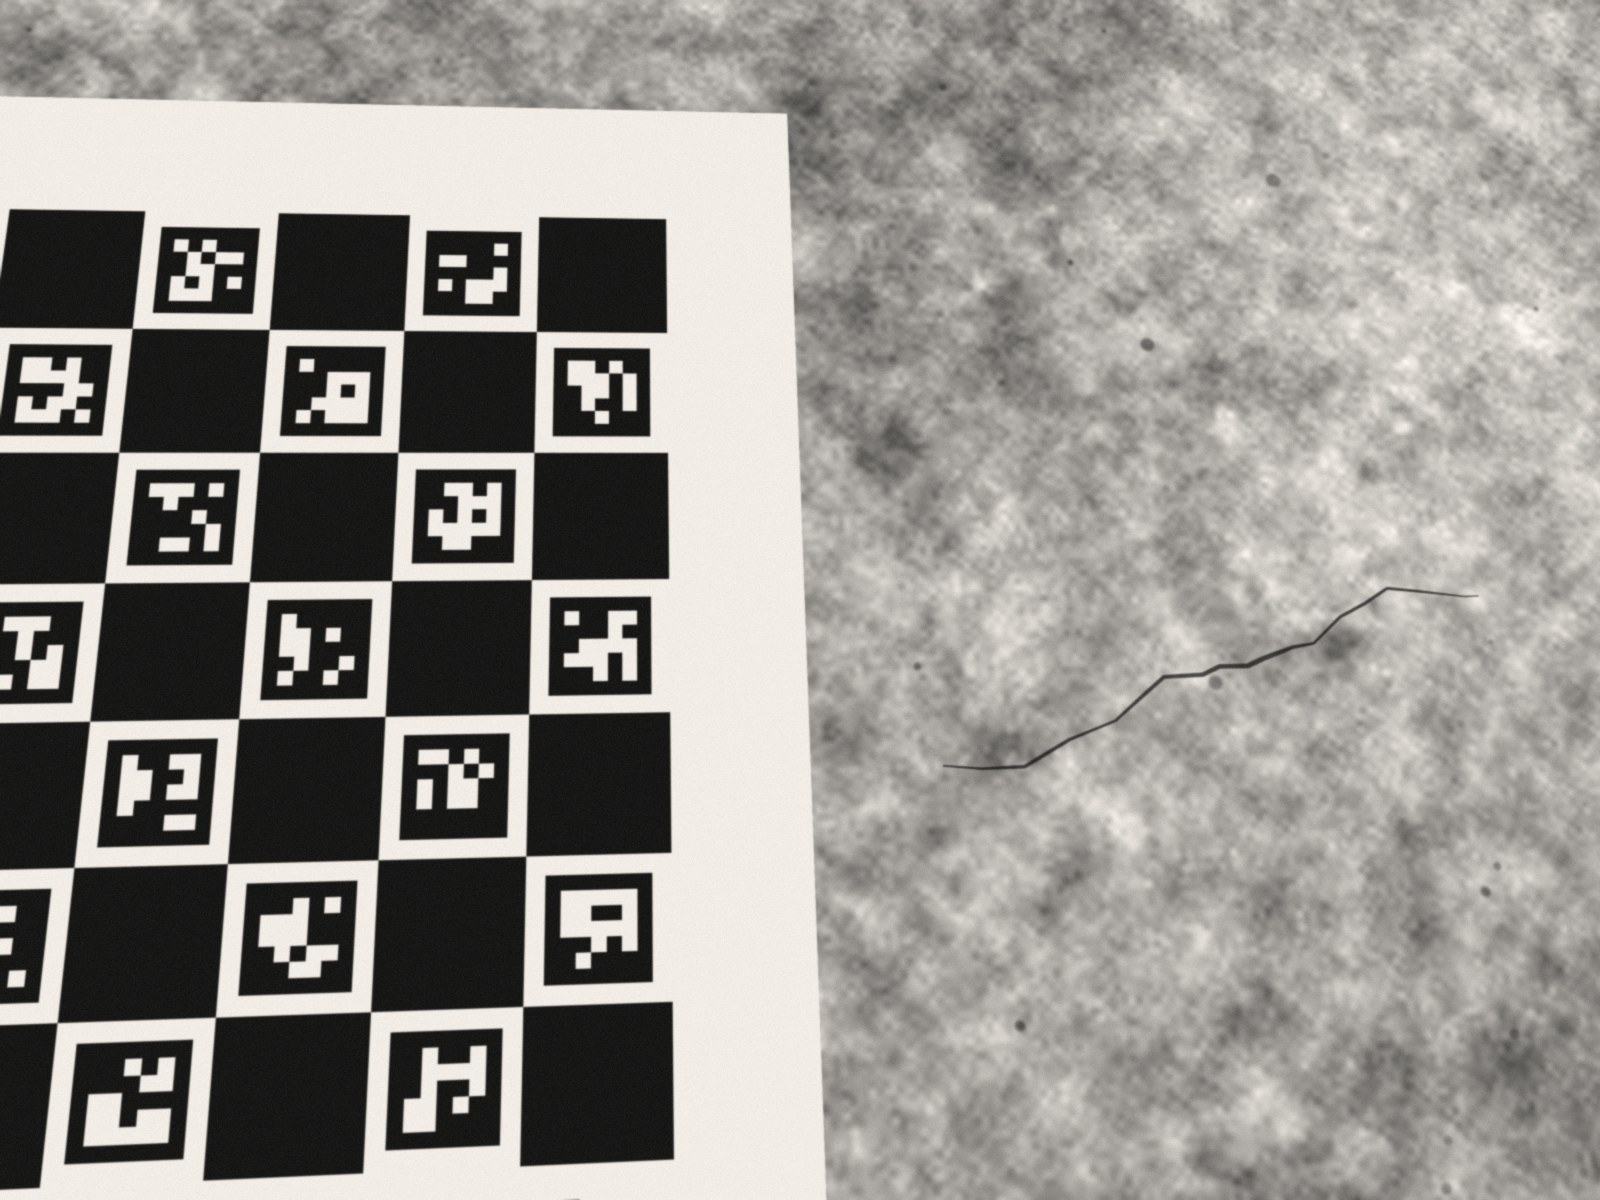
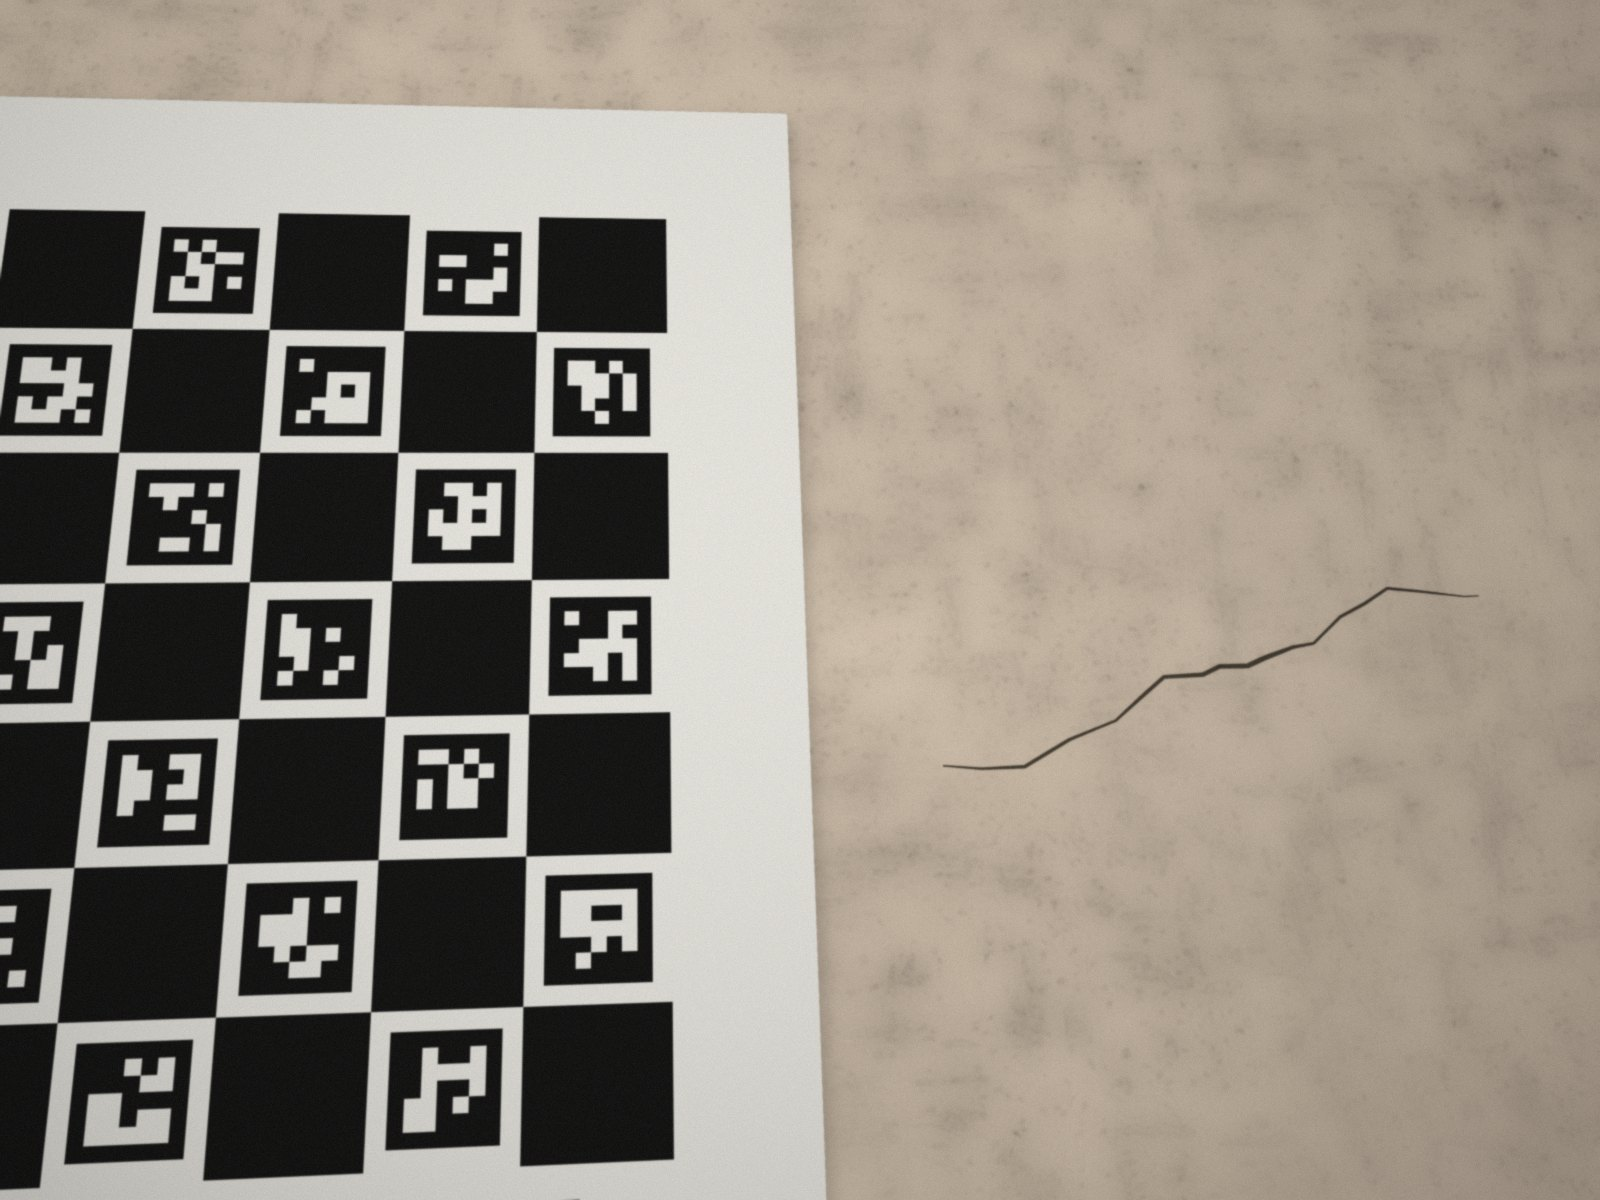
Photos de démo : fissure synthétique sur un vrai mur CC0 (Poly Haven, « Plastered Wall »)
Même géométrie, mêmes caméras, même vérité terrain ; seul le rendu change.
Histoire vérifiée : reprise -> photo plus proche -> prochaine visite -> comparaison + ticket.
Jeu d'évaluation et chiffres publiés inchangés.

diff --git a/scripts/make_demo_samples.py b/scripts/make_demo_samples.py
@@ -1,14 +1,25 @@
 """Synthetic sample photos for the hosted demo (one wall, one crack, four photos).
 
 The hosted demo must be testable by judges who have no printed card and no cracked wall, so it
-ships four *synthetic* photos of the same procedural wall (ground truth known exactly):
+ships four *synthetic* photos of the same wall (ground truth known exactly):
 
   blurry   visit 1, first attempt: camera shake -> the agent must ask for a retake
   far      visit 1, second attempt: sharp but far away -> the crack is < 3 px wide -> closer photo
   close    visit 1, closer photo of the same crack -> measured
   visit2   three months later: the crack widened by 0.45 mm and grew by 12 mm -> compare -> ticket
 
-usage: python scripts/make_demo_samples.py --out web/samples
+The published samples (web/samples) put the synthetic crack on a real CC0 wall photo from Poly Haven
+("Plastered Wall" by Amal Kumar, see crackwatch/assets/textures/ATTRIBUTION.md):
+
+  python scripts/make_demo_samples.py --out web/samples --texture crackwatch/assets/textures/plastered_wall_diff_crop.jpg
+
+Only the look changes with --texture (colour wall, soft light fall-off, vignette, shaded crack); the
+crack polylines, the card pose, the four camera poses (seed 424246) and therefore the ground truth are
+the same as without it, computed by the same synth._gt_cracks. The texture's fine pores are toned
+down (--texture-detail) because isolated dark dots are not what the detector was tuned on; the
+measurement thresholds are never touched. Output is deterministic (fixed seeds, OpenCV only).
+Without --texture the original procedural grey concrete is rendered (crackwatch.synth, unchanged).
+
 They are clearly labelled "synthetic" in the interface, with the true widths next to the measured ones.
 """
 import argparse
@@ -107,6 +118,125 @@ def render(sp, wall, cracks, cam, seed, extra_blur=0.0, motion_px=0):
     return buf, gt
 
 
+# ------------------------------------------------------------------ photographic wall (--texture)
+# Same scene, same cameras, same crack polygons as above; only the look changes: the procedural
+# grey concrete is replaced by a real CC0 wall photo (colour), the crack is a dark gap with a soft
+# shadowed rim, the light falls off across the wall and the lens vignettes. Ground truth is computed
+# by the same synth._gt_cracks from the same polylines and homographies, so it stays exact.
+# Intensities stay in the same near-linear domain as render() (output gamma 1.1, crack depth
+# sp.crack_depth): the measurement's blur/width model sees the crack exactly as on the grey wall.
+LAMP_MM = (-320.0, -300.0)      # broad soft light up-left of the card (wall mm)
+LAMP_SIGMA_MM = 520.0
+CRACK_CORE_TINT = np.array([0.88, 0.96, 1.0], np.float32)   # BGR: shadow inside the gap reads slightly warm
+CRACK_RIM = 0.06                # extra darkening of the rim (dust, chipped paint edge)
+CRACK_RIM_MM = 0.15             # rim softness (Gaussian sigma)
+
+
+def load_texture(path, px_per_mm, smooth_mm=1.5, contrast=3.0, detail=0.5, tint=(1.0, 1.08, 1.15), mid=None, broad_mm=8.0):
+    """CC0 wall photo (JPEG) -> float32 BGR 0..1 ready to render.
+
+    Works on luminance so the paint colour is kept, in three bands: the broad relief (coarser than
+    `broad_mm`, which the detector's 12 mm background median absorbs) is scaled by `contrast`, the
+    mid relief (`smooth_mm`..`broad_mm`) by `mid`, the fine grain (pores, specks) by `detail`. Real paint pores are isolated dark
+    dots that the ridge detector's relative thresholds (median + k MAD) were not tuned on, so they are
+    toned down rather than the thresholds touched. Hue variation is kept, softened."""
+    bgr = cv2.imread(path, cv2.IMREAD_COLOR)
+    if bgr is None:
+        raise SystemExit(f"cannot read texture {path}")
+    lin = bgr.astype(np.float32) / 255.0
+    L = lin.mean(2)
+    s = max(0.5, smooth_mm * px_per_mm)
+    low = cv2.GaussianBlur(L, (0, 0), s)
+    Lm = float(L.mean())
+    broad = cv2.GaussianBlur(L, (0, 0), broad_mm * px_per_mm)
+    mid = contrast if mid is None else mid
+    Lnew = Lm + contrast * (broad - Lm) + mid * (low - broad) + detail * (L - low)
+    chroma = cv2.GaussianBlur(lin / np.maximum(L, 1e-3)[..., None], (0, 0), s)
+    cm = chroma.reshape(-1, 3).mean(0)
+    chroma = cm + 0.5 * (chroma - cm)
+    return np.clip(Lnew[..., None] * chroma * np.asarray(tint, np.float32), 0, 1)
+
+
+def texture_meta(path):
+    """Provenance sidecar <texture>.json (id, name, authors, url, license, sha256 ...)."""
+    side = os.path.splitext(path)[0] + ".json"
+    if not os.path.exists(side):
+        raise SystemExit(f"missing provenance file {side}")
+    with open(side) as f:
+        return json.load(f)
+
+
+def render_textured(sp, tex, tex_frame, cracks, cam, seed, extra_blur=0.0, motion_px=0, exposure=1.0, noise=0.008,
+                    spec=synth.CARD_A6):
+    """Photographic version of render(): colour wall texture, shaded crack, lit card, vignette."""
+    rng = np.random.default_rng(seed)
+    H_wall, _ = synth.camera_homography(cam["look_at"], cam["ppm"], cam["tilt_deg"], cam["azimuth_deg"], cam["roll_deg"])
+    Hinv = np.linalg.inv(H_wall)
+    # raster exactly as synth.render_view (same bounds, same P)
+    corners = synth.apply_h(Hinv, [(0, 0), (synth.IMG_W, 0), (synth.IMG_W, synth.IMG_H), (0, synth.IMG_H)])
+    x0, y0 = corners.min(0) - 5
+    x1, y1 = corners.max(0) + 5
+    x0, y0 = max(x0, synth.WALL_REGION[0]), max(y0, synth.WALL_REGION[1])
+    x1, y1 = min(x1, synth.WALL_REGION[2]), min(y1, synth.WALL_REGION[3])
+    ppm_max = max(synth.local_ppm(H_wall, c) for c in synth.apply_h(Hinv, [(0, 0), (synth.IMG_W, 0), (synth.IMG_W, synth.IMG_H),
+                                                                            (0, synth.IMG_H), (synth.IMG_W / 2, synth.IMG_H / 2)]))
+    P = float(np.clip(round(2.0 * ppm_max), 6, 22))
+    h, w = int((y1 - y0) * P) + 1, int((x1 - x0) * P) + 1
+    # wall: texture pixel (i, j) centre is at wall mm (tx0 + (i + 0.5) / tp, ty0 + (j + 0.5) / tp)
+    tx0, ty0, tp = tex_frame
+    A = np.array([[tp / P, 0, (x0 - tx0) * tp + 0.5 * tp / P - 0.5],
+                  [0, tp / P, (y0 - ty0) * tp + 0.5 * tp / P - 0.5]], np.float64)
+    img = cv2.warpAffine(tex, A, (w, h), flags=cv2.INTER_CUBIC | cv2.WARP_INVERSE_MAP, borderMode=cv2.BORDER_REFLECT)
+    img = np.clip(img, 0, 1)
+    # crack: exact coverage of the same polygons (synth.render_cracks with depth 0 -> 1 - coverage)
+    keep = np.ones((h, w), np.float32)
+    synth.render_cracks(keep, cracks, (x0, y0), P, 0.0)
+    cov = 1.0 - keep
+    rim = cv2.GaussianBlur(cov, (0, 0), CRACK_RIM_MM * P)
+    rim = np.clip(rim * 2.0, 0, 1) * keep
+    img *= (1.0 - CRACK_RIM * rim)[..., None]
+    core = 1.0 - cov[..., None] * (1.0 - sp.crack_depth * CRACK_CORE_TINT)
+    img *= core
+    # card: same warp as synth.paste_card, recovered as (page * mask, mask), then a faint contact shadow
+    a = np.zeros((h, w), np.float32)
+    synth.paste_card(a, spec, sp.card_pose, (x0, y0), P)          # a = page * mask
+    b = np.ones((h, w), np.float32)
+    synth.paste_card(b, spec, sp.card_pose, (x0, y0), P)          # b = 1 - mask + page * mask
+    mask = np.clip(1.0 - b + a, 0, 1)
+    page = np.where(mask > 1e-3, a / np.maximum(mask, 1e-3), 0)
+    sh = cv2.GaussianBlur(np.roll(mask, (int(round(0.8 * P)), int(round(0.5 * P))), (0, 1)), (0, 0), 0.9 * P)
+    img *= (1.0 - 0.18 * sh * (1.0 - mask))[..., None]
+    paper = np.clip(page, 0, 1)[..., None] * np.array([0.96, 0.99, 1.0], np.float32)
+    img = img * (1.0 - mask[..., None]) + paper * mask[..., None]
+    # light falls off across the wall (fixed in wall space: same lamp for every photo)
+    xs = x0 + (np.arange(w, dtype=np.float32) + 0.5) / P
+    ys = y0 + (np.arange(h, dtype=np.float32) + 0.5) / P
+    d2 = (xs[None, :] - LAMP_MM[0]) ** 2 + (ys[:, None] - LAMP_MM[1]) ** 2
+    img *= (0.62 + 0.55 * np.exp(-d2 / (2 * LAMP_SIGMA_MM ** 2)))[..., None]
+    # camera
+    img = cv2.GaussianBlur(img, (0, 0), 0.35 * P / cam["ppm"])
+    S = np.array([[1 / P, 0, x0 + 0.5 / P], [0, 1 / P, y0 + 0.5 / P], [0, 0, 1]])
+    lin = cv2.warpPerspective(img, H_wall @ S, (synth.IMG_W, synth.IMG_H), flags=cv2.INTER_LINEAR,
+                              borderMode=cv2.BORDER_REFLECT)
+    yy, xx = np.mgrid[0:synth.IMG_H, 0:synth.IMG_W].astype(np.float32)
+    r2 = ((xx - synth.IMG_W / 2) / synth.IMG_W) ** 2 + ((yy - synth.IMG_H / 2) / synth.IMG_W) ** 2
+    lin *= (exposure * (1.0 - 0.55 * r2))[..., None]
+    if extra_blur:
+        lin = cv2.GaussianBlur(lin, (0, 0), extra_blur)
+    if motion_px:
+        k = np.zeros((motion_px, motion_px), np.float32)
+        k[motion_px // 2, :] = 1.0 / motion_px
+        lin = cv2.filter2D(lin, -1, k)
+    img = cv2.GaussianBlur(lin, (0, 0), 0.7)
+    img = np.clip(img, 0, 1) ** (1 / 1.1)
+    img = img + rng.normal(0, noise, img.shape[:2]).astype(np.float32)[..., None] \
+              + rng.normal(0, noise / 2, img.shape).astype(np.float32)      # luma + a little chroma noise
+    bgr = np.clip(img * 255 + 0.5, 0, 255).astype(np.uint8)
+    ok, buf = cv2.imencode(".jpg", bgr, [cv2.IMWRITE_JPEG_QUALITY, 86])
+    gt = synth._gt_cracks(cracks, sp.card_pose, H_wall)
+    return buf, gt
+
+
 def seed_all(seed):
     global SEED
     SEED = seed
@@ -116,6 +246,14 @@ def main():
     ap = argparse.ArgumentParser()
     ap.add_argument("--out", default="web/samples")
     ap.add_argument("--seed", type=int, default=SEED)
+    ap.add_argument("--texture", help="CC0 wall photo (with a provenance sidecar <texture>.json); default: procedural concrete")
+    ap.add_argument("--texture-ppm", type=float, default=6.0, help="texture pixels per wall mm")
+    ap.add_argument("--texture-smooth-mm", type=float, default=1.5, help="scale separating broad relief from fine grain")
+    ap.add_argument("--texture-contrast", type=float, default=2.5, help="gain on the broad relief (luminance)")
+    ap.add_argument("--texture-detail", type=float, default=0.35, help="gain on the fine grain (luminance)")
+    ap.add_argument("--tint", type=float, nargs=3, default=(1.0, 1.08, 1.15), metavar=("B", "G", "R"),
+                    help="paint colour gain (default: warm cream)")
+    ap.add_argument("--exposure", type=float, default=1.0)
     a = ap.parse_args()
     seed_all(a.seed)
     os.makedirs(a.out, exist_ok=True)
@@ -137,9 +275,25 @@ def main():
         "visit2": (v2, pick_camera(crng, sp, v2, 9.0), {}),
     }
     meta = {"generator": "crackwatch.synth (procedural concrete, exact ground truth)", "seed": SEED, "samples": {}}
+    tex = None
+    if a.texture:
+        tex = load_texture(a.texture, a.texture_ppm, a.texture_smooth_mm, a.texture_contrast, a.texture_detail, a.tint)
+        th, tw = tex.shape[:2]
+        cx, cy = 111.0, 84.0     # centre of the four camera footprints on the wall (mm)
+        tex_frame = (cx - tw / (2 * a.texture_ppm), cy - th / (2 * a.texture_ppm), a.texture_ppm)
+        tm = texture_meta(a.texture)
+        meta["generator"] = "crackwatch synthetic crack on a CC0 Poly Haven wall texture, exact ground truth"
+        meta["texture"] = {k: tm[k] for k in ("id", "name", "authors", "url", "license")}
+        meta["render"] = {"texture_file": os.path.basename(a.texture), "texture_px_per_mm": a.texture_ppm,
+                          "texture_smooth_mm": a.texture_smooth_mm,
+                          "texture_contrast": a.texture_contrast, "texture_detail": a.texture_detail,
+                          "tint_bgr": list(a.tint), "exposure": a.exposure}
     for i, (name, (cracks, cam, kw)) in enumerate(shots.items()):
         assert cam is not None, name
-        buf, gt = render(sp, wall, cracks, cam, SEED + 10 + i, **kw)
+        if tex is None:
+            buf, gt = render(sp, wall, cracks, cam, SEED + 10 + i, **kw)
+        else:
+            buf, gt = render_textured(sp, tex, tex_frame, cracks, cam, SEED + 10 + i, exposure=a.exposure, **kw)
         with open(os.path.join(a.out, name + ".jpg"), "wb") as f:
             f.write(buf.tobytes())
         w = np.concatenate([np.array(c["width_mm"])[np.array(c["visible"], bool)] for c in gt])

diff --git a/crackwatch/assets/textures/ATTRIBUTION.md b/crackwatch/assets/textures/ATTRIBUTION.md
@@ -1,0 +1,12 @@
+# Wall texture used by the demo photos
+
+`plastered_wall_diff_crop.jpg` is a centre crop (x 523..3573, y 863..3233) of the 4K diffuse map of
+**"Plastered Wall" by Amal Kumar**, Poly Haven: https://polyhaven.com/a/plastered_wall
+
+- Licence: **CC0 1.0** (public domain), https://polyhaven.com/license — no attribution required; credited anyway.
+- Source file: https://dl.polyhaven.org/file/ph-assets/Textures/jpg/4k/plastered_wall/plastered_wall_diff_4k.jpg
+  (sha256 in `plastered_wall_diff_crop.json`).
+
+Use: `scripts/make_demo_samples.py --texture ...` renders the four demo photos (`web/samples/`) with this
+real wall under a *synthetic* crack whose geometry, and therefore ground truth, is known exactly. The
+evaluation sets and the published accuracy figures (`eval/`) do not use this texture and are unchanged.
